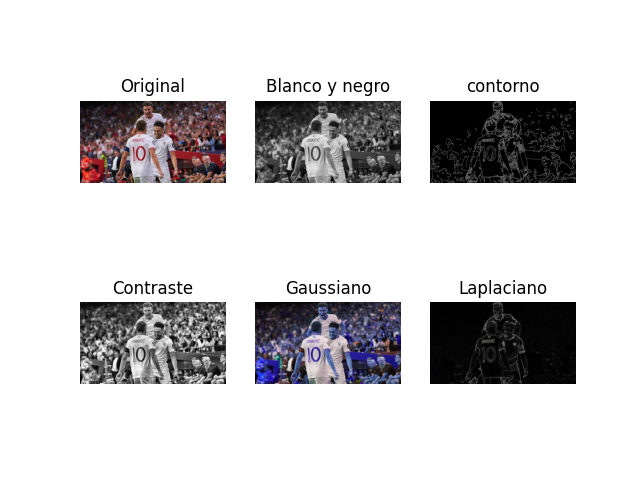
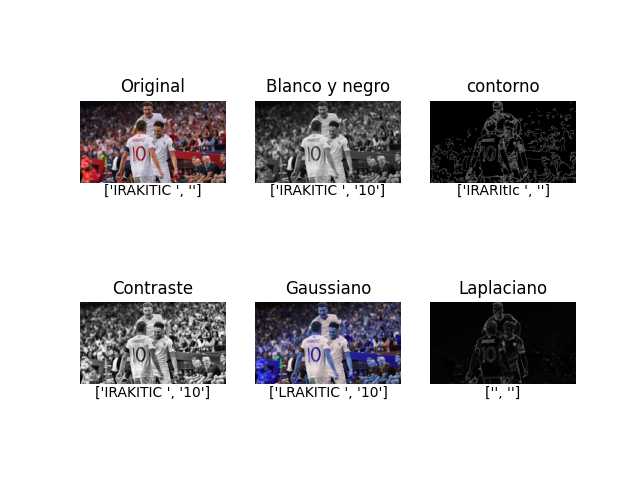
Añadido resultado de lectura a la imagen

diff --git a/comparativaGlobal.py b/comparativaGlobal.py
@@ -49,43 +49,54 @@ def eligeFoto(dificultad):
             imagen_filtrada3 = filtros.filtrado(3, imagen)
             imagen_filtrada4 = filtros.filtrado(4, imagen)
             imagen_filtrada5 = filtros.filtrado(5, imagen)
-
+            leeimagen = str(mainFile.easyOcr(imagen))
+            leeimagen1 = str(mainFile.easyOcr(imagen_filtrada1))
+            leeimagen2 = str(mainFile.easyOcr(imagen_filtrada2))
+            leeimagen3 = str(mainFile.easyOcr(imagen_filtrada3))
+            leeimagen4 = str(mainFile.easyOcr(imagen_filtrada4))
+            leeimagen5 = str(mainFile.easyOcr(imagen_filtrada5))
             plt.subplot(2, 3, 1)
             plt.title("Original")
             plt.imshow(cv2.cvtColor(imagen, cv2.COLOR_BGR2RGB))
+            plt.text(0.5, -0.1, leeimagen, horizontalalignment='center', verticalalignment='center', transform=plt.gca().transAxes)
             plt.axis('off')
-            print("Lectura imagen original: \n PyTesseract: " + str(mainFile.pyTesseractCrudo(imagen)) + "\n easyOcr: " + str(mainFile.easyOcr(imagen)))
+            print("Lectura imagen original: \n PyTesseract: " + str(mainFile.pyTesseractCrudo(imagen)) + "\n easyOcr: " + leeimagen)
             
             plt.subplot(2, 3, 2)
             plt.title("Blanco y negro")
             plt.imshow(imagen_filtrada1, cmap='gray')
+            plt.text(0.5, -0.1, leeimagen1, horizontalalignment='center', verticalalignment='center', transform=plt.gca().transAxes)
             plt.axis('off')
-            print("Lectura imagen blanca y negra: \n PyTesseract: " + str(mainFile.pyTesseractCrudo(imagen_filtrada1)) + "\n easyOcr: " + str(mainFile.easyOcr(imagen_filtrada1)))
+            print("Lectura imagen blanca y negra: \n PyTesseract: " + str(mainFile.pyTesseractCrudo(imagen_filtrada1)) + "\n easyOcr: " + leeimagen1)
             
             plt.subplot(2, 3, 3)
             plt.title("contorno")
             plt.imshow(imagen_filtrada2, cmap='gray')
+            plt.text(0.5, -0.1, leeimagen2, horizontalalignment='center', verticalalignment='center', transform=plt.gca().transAxes)
             plt.axis('off')
-            print("Lectura imagen con contorno: \n PyTesseract: " + str(mainFile.pyTesseractCrudo(imagen_filtrada2)) + "\n easyOcr: " + str(mainFile.easyOcr(imagen_filtrada2)))
+            print("Lectura imagen con contorno: \n PyTesseract: " + str(mainFile.pyTesseractCrudo(imagen_filtrada2)) + "\n easyOcr: " + leeimagen2)
             
             # Segunda fila
             plt.subplot(2, 3, 4)
             plt.title("Contraste")
             plt.imshow(imagen_filtrada3, cmap='gray')
+            plt.text(0.5, -0.1, leeimagen3, horizontalalignment='center', verticalalignment='center', transform=plt.gca().transAxes)
             plt.axis('off')
-            print("Lectura imagen con mejora del contraste: \n PyTesseract: " + str(mainFile.pyTesseractCrudo(imagen_filtrada3)) + "\n easyOcr: " + str(mainFile.easyOcr(imagen_filtrada3)))
+            print("Lectura imagen con mejora del contraste: \n PyTesseract: " + str(mainFile.pyTesseractCrudo(imagen_filtrada3)) + "\n easyOcr: " + leeimagen3)
             
             plt.subplot(2, 3, 5)
             plt.title("Gaussiano")
             plt.imshow(imagen_filtrada4, cmap='gray')
+            plt.text(0.5, -0.1, leeimagen4, horizontalalignment='center', verticalalignment='center', transform=plt.gca().transAxes)
             plt.axis('off')
-            print("Lectura imagen suavizada (Gaussiano): \n PyTesseract: " + str(mainFile.pyTesseractCrudo(imagen_filtrada4)) + "\n easyOcr: " + str(mainFile.easyOcr(imagen_filtrada4)))
+            print("Lectura imagen suavizada (Gaussiano): \n PyTesseract: " + str(mainFile.pyTesseractCrudo(imagen_filtrada4)) + "\n easyOcr: " + leeimagen4)
             
             plt.subplot(2, 3, 6)
             plt.title("Laplaciano")
             plt.imshow(imagen_filtrada5, cmap='gray')
+            plt.text(0.5, -0.1, leeimagen5, horizontalalignment='center', verticalalignment='center', transform=plt.gca().transAxes)
             plt.axis('off')            
-            print("Lectura de mejora de nitidez Laplaciano: \n PyTesseract: " + str(mainFile.pyTesseractCrudo(imagen_filtrada5)) + "\n easyOcr: " + str(mainFile.easyOcr(imagen_filtrada5)))
+            print("Lectura de mejora de nitidez Laplaciano: \n PyTesseract: " + str(mainFile.pyTesseractCrudo(imagen_filtrada5)) + "\n easyOcr: " + leeimagen5)
                   
             plt.show()
 
